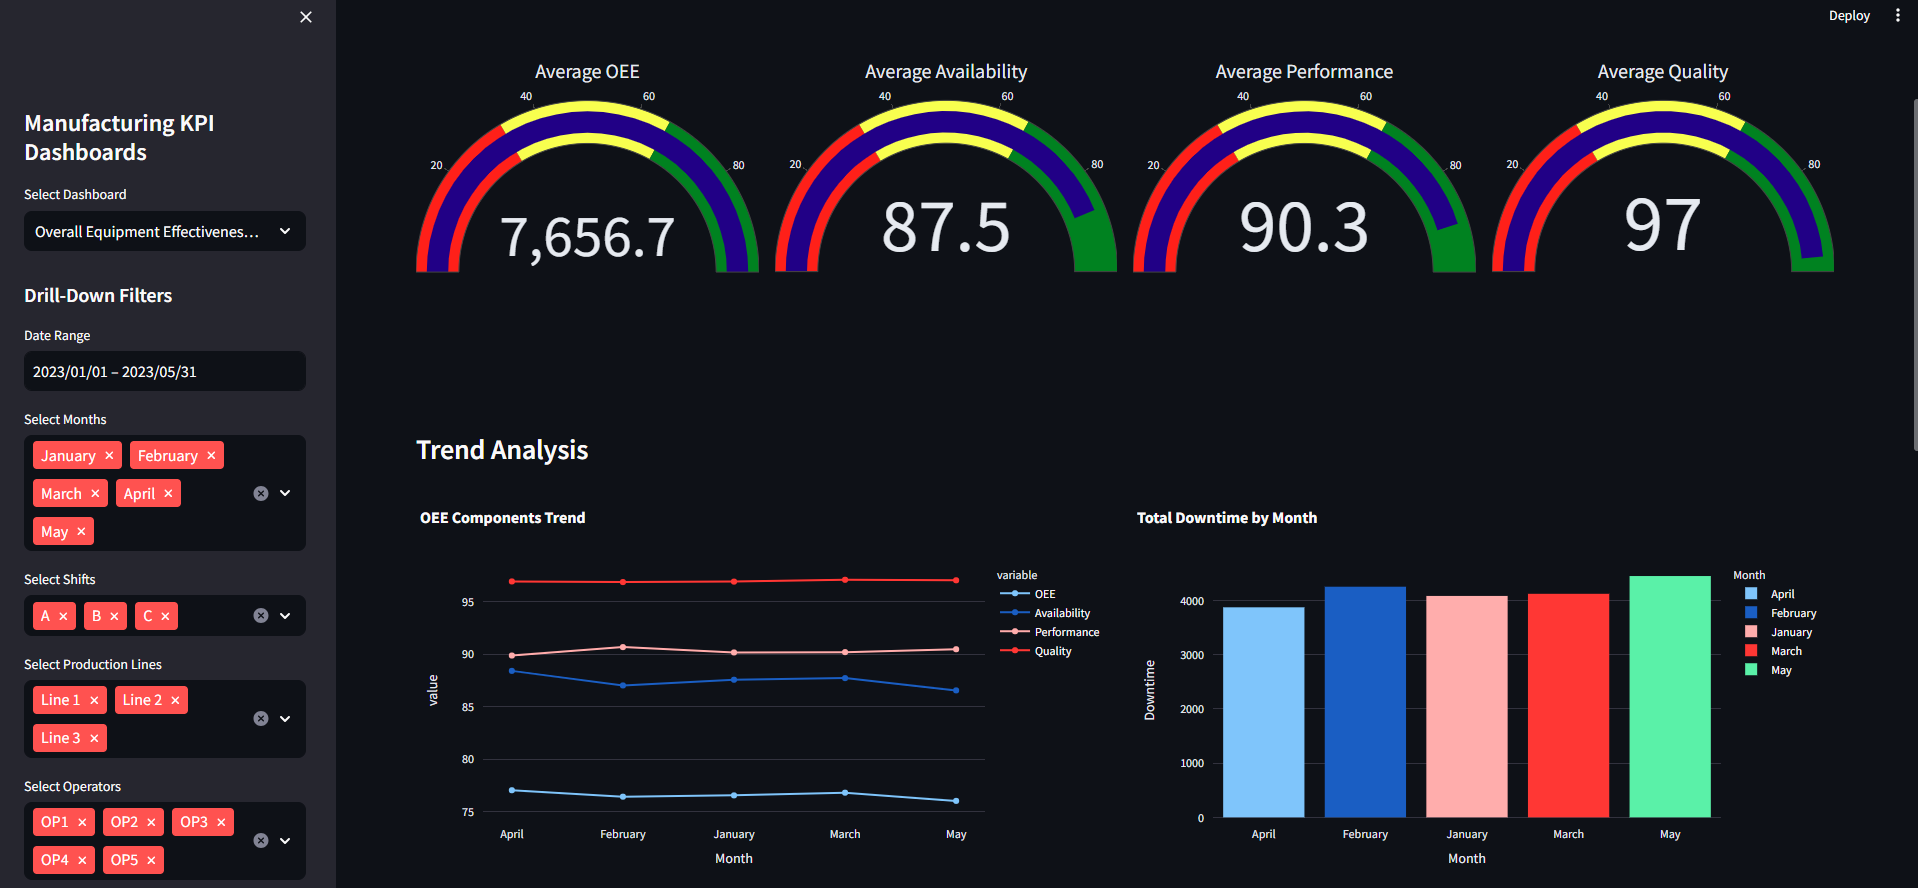
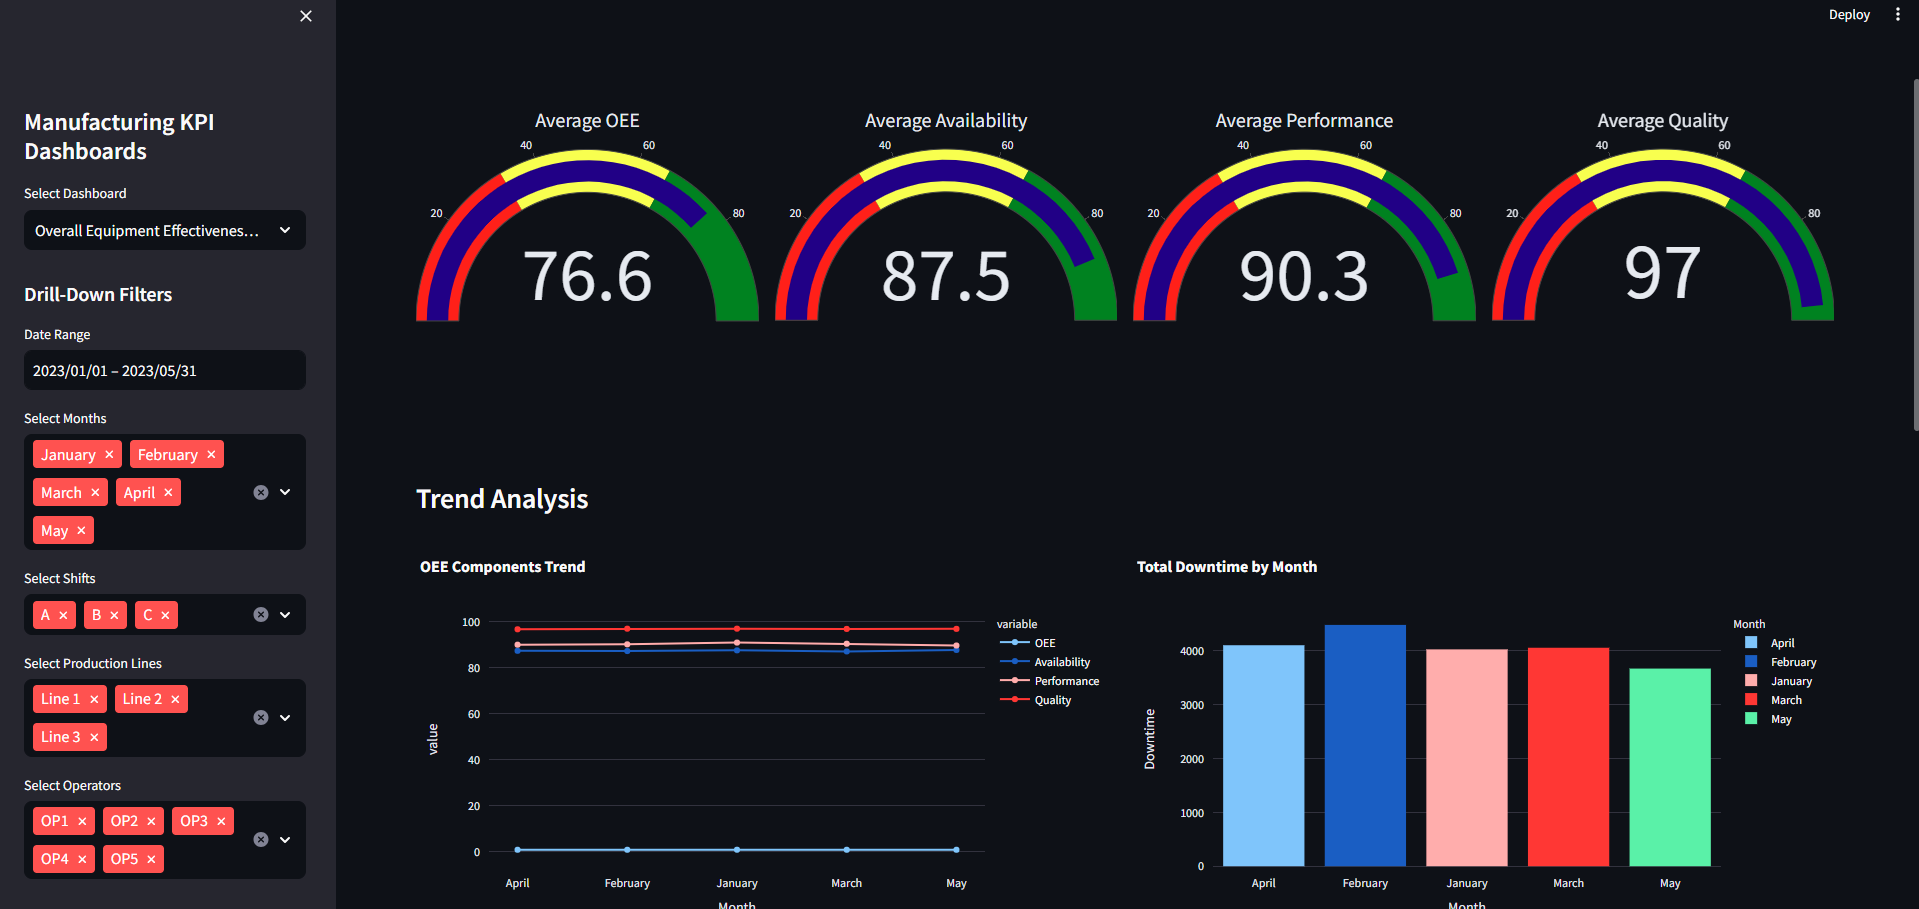
fix readme

diff --git a/dashboards/oee_dashboard.py b/dashboards/oee_dashboard.py
@@ -65,7 +65,7 @@ def show_oee_dashboard():
                         })
         
         detailed_df = pd.DataFrame(detailed_data)
-        detailed_df['OEE'] = (detailed_df['Availability'] * detailed_df['Performance'] * detailed_df['Quality']) / 10000
+        detailed_df['OEE'] = (detailed_df['Availability'] * detailed_df['Performance'] * detailed_df['Quality']) / 1000000
         
         # Add root cause data
         root_causes = [
